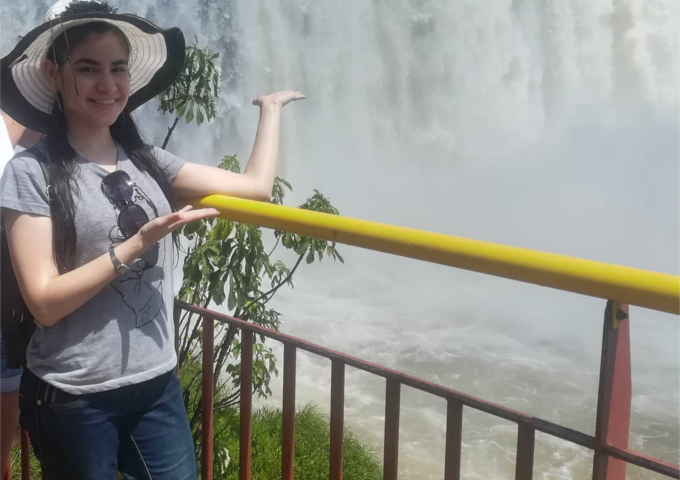
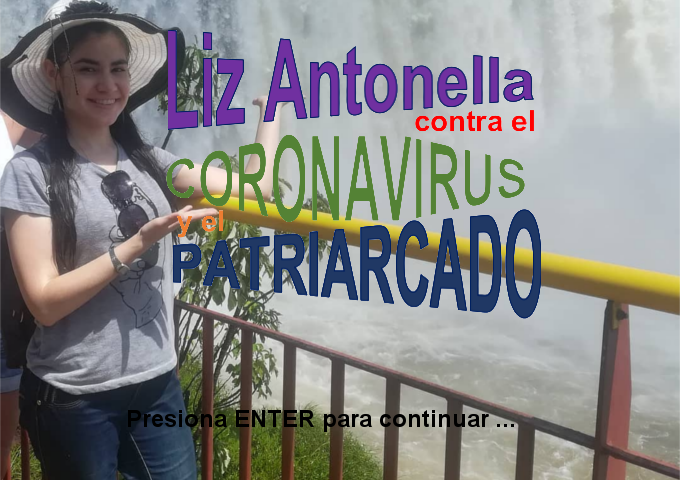
corregido bug intro

Changed region(s): [[0.2471, 0.0625, 0.8029, 0.6562], [0.1853, 0.8438, 0.7103, 0.9062]]

diff --git a/js/stfp.js b/js/stfp.js
@@ -66,38 +66,18 @@ stfp.main = {
         "use strict"
 
         var ctx  = stfp.main._showText("", "white", true, "black", 50),
-            text = "Presiona ENTER para continuar ...",
-            tw = ctx.measureText(text).width,
-            image = new Image(),
-            image2 = new Image(),
-            ix, iw, iscale;
+            image = new Image();
 
         // Reset all ids
         ge.$(stfp.DEBUG_ID).innerHTML = "";
         ge.$(stfp.SCREEN_ID).innerHTML = "";
         ge.$(stfp.MINIMAP_ID).innerHTML = "";
 
-        image2.onload = function () {
-            ctx.drawImage(image2, -1, 0)
-        };
-        image2.src = "img/liz_antonella.png";
-
 
         image.onload = function () {
-            iscale = Math.floor(stfp.SCREEN_WIDTH / 2);
-            ix = (stfp.SCREEN_WIDTH - iscale) / 2;
-            iw = iscale;
 
-            /*
-            ctx.drawImage(image, 0, 0, 64, 64,
-                          ix , 70 - Math.floor(iscale * 0.15),
-                          iw, iw);
-            */
+            ctx.drawImage(image, 0, 0)
 
-            ctx.drawImage(image, ix, 70 - Math.floor(iscale * 0.15));
-
-
-            ctx.fillText(text, stfp.SCREEN_WIDTH / 2 - tw / 2, stfp.SCREEN_HEIGHT - 50);
 
             document.onkeydown = ge.bind(function (e) {
                 e = e || window.event;
@@ -107,7 +87,7 @@ stfp.main = {
                 }
             });
         };
-        image.src = "img/titulo.png";
+        image.src = "img/liz_antonella.png";
     },
 
 
